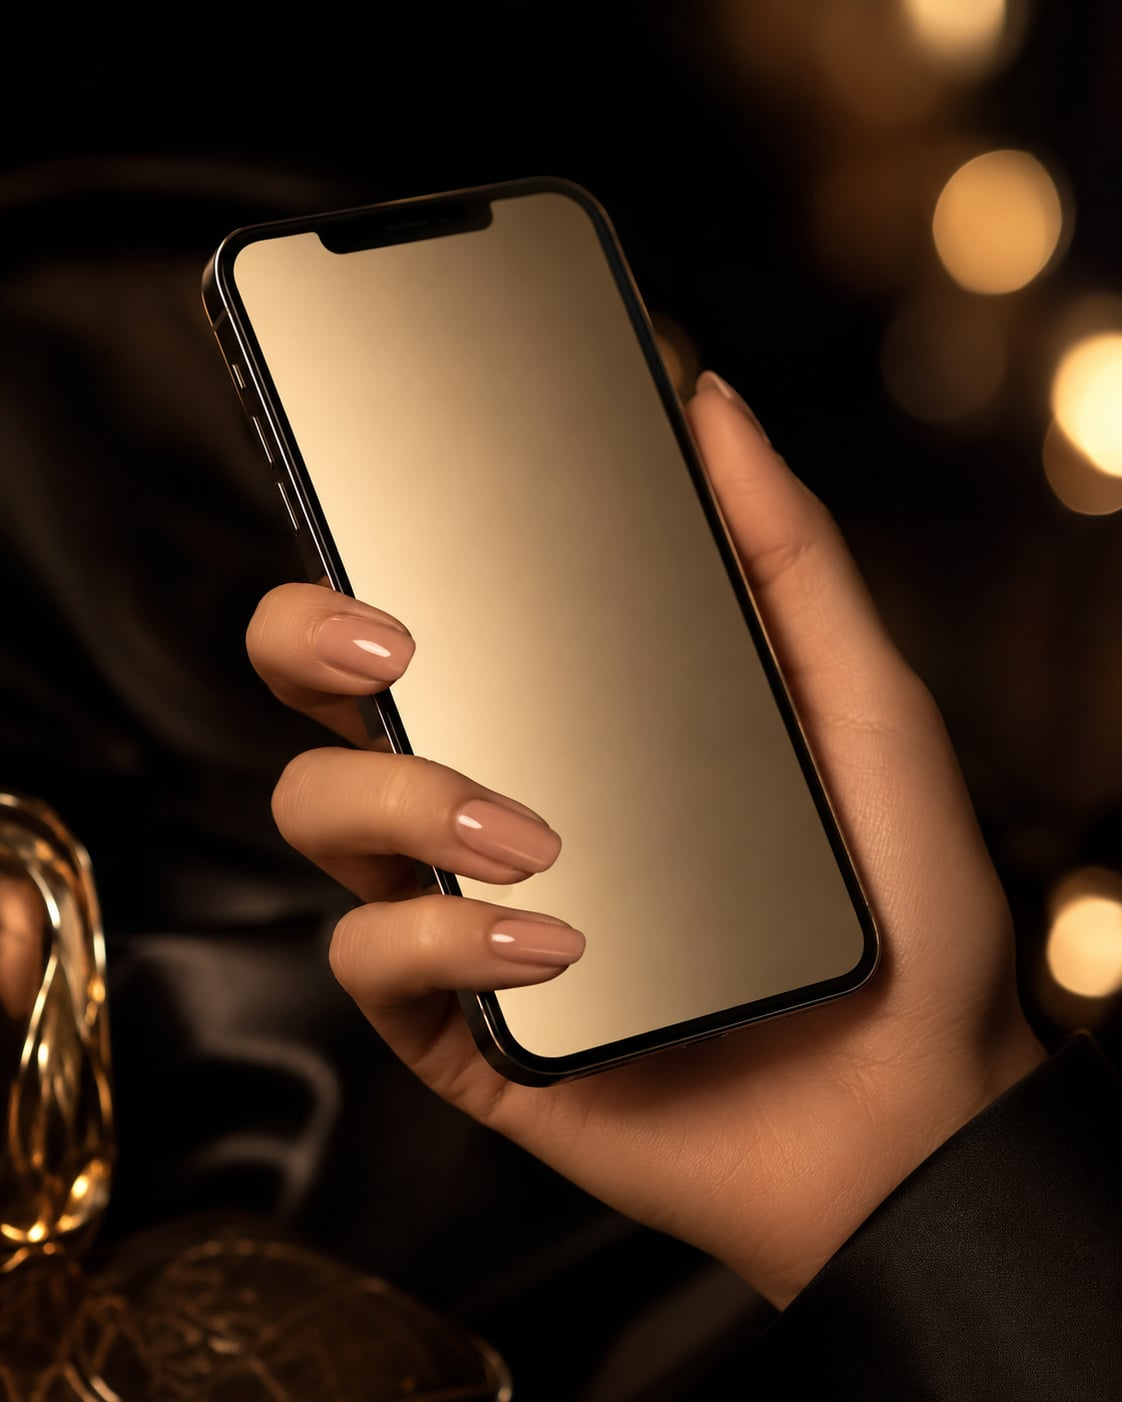
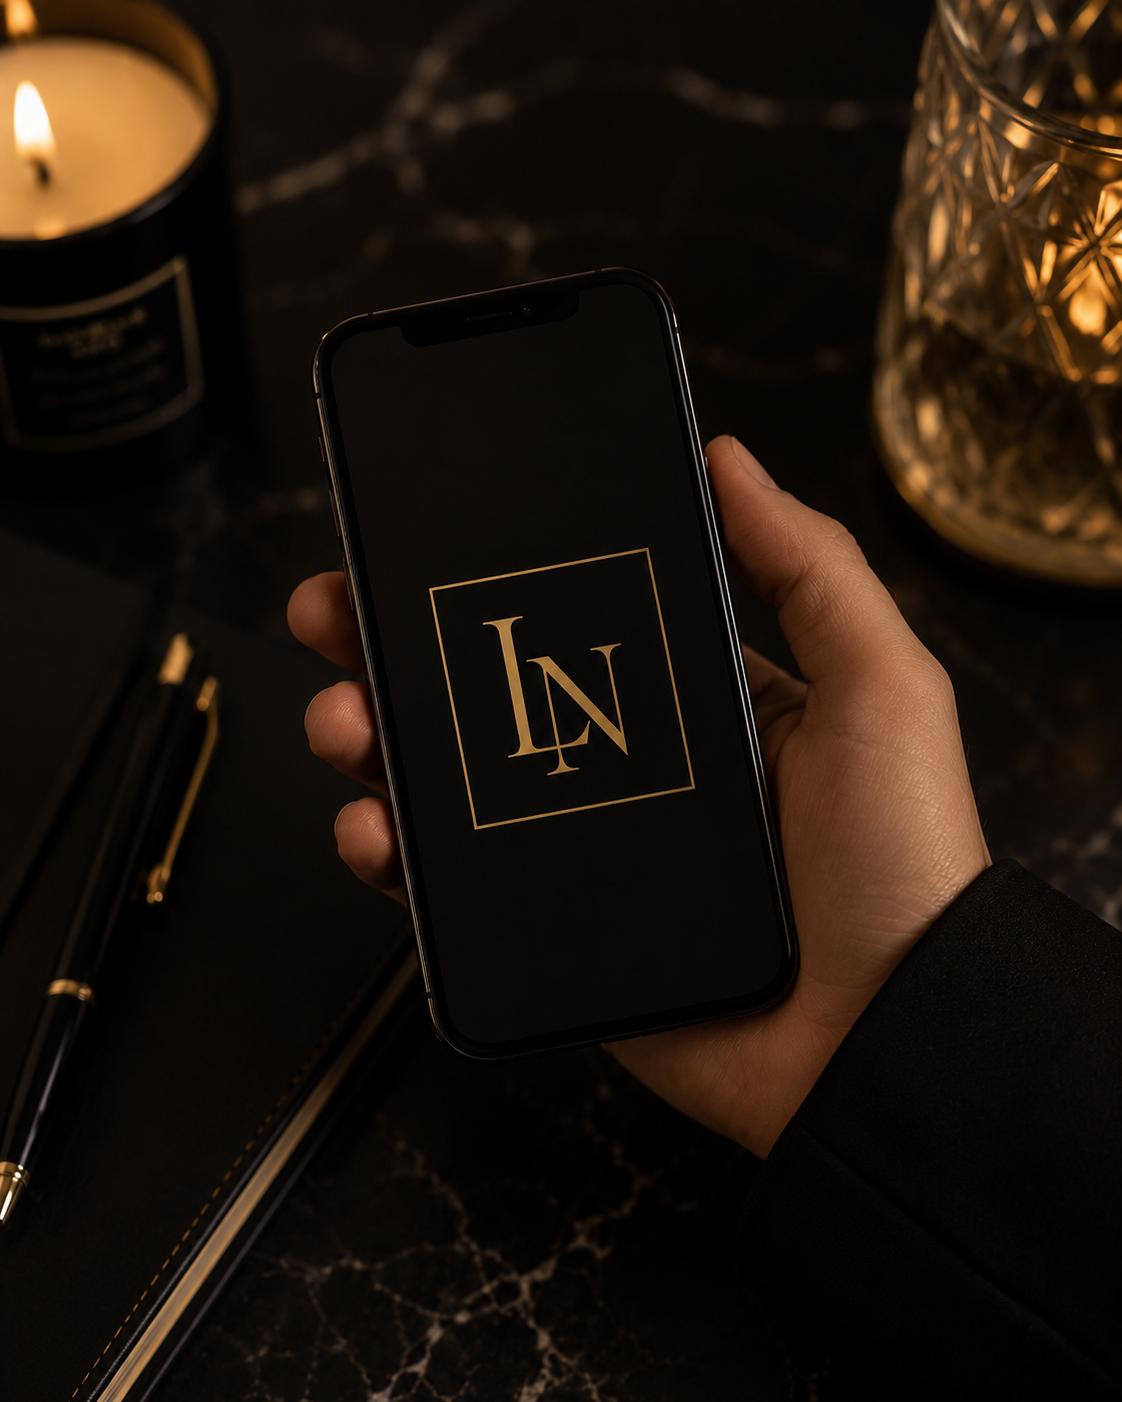
fix: add personal data, meta tags
Add personal data over the website, add meta tags for pages.

diff --git a/apps/web/features/home/config/home.constants.ts b/apps/web/features/home/config/home.constants.ts
@@ -124,99 +124,88 @@ export const GALLERY_FILTERS = [
 export const GALLERY_ITEMS: GalleryItem[] = [
   {
     id: "g01",
-    src: "https://picsum.photos/seed/nails-french/600/900",
-    alt: "Manicure hybrydowy french",
+    src: "/works/work-1.png",
+    alt: "Praca Luxury Nails",
     category: "hybryda",
     size: "tall",
-    service: "Hybryda French",
+    service: "Hybryda",
   },
   {
     id: "g02",
-    src: "https://picsum.photos/seed/nails-nude/800/600",
-    alt: "Żel na naturalną płytkę nude",
+    alt: "Praca Luxury Nails",
     category: "zel",
     size: "normal",
-    service: "Żel nude",
+    service: "Żel",
   },
   {
     id: "g03",
-    src: "https://picsum.photos/seed/nails-art3d/600/900",
-    alt: "Nail art kwiaty 3D",
+    alt: "Praca Luxury Nails",
     category: "nail-art",
     size: "tall",
-    service: "Nail Art 3D",
+    service: "Nail Art",
   },
   {
     id: "g04",
-    src: "https://picsum.photos/seed/nails-tips/800/600",
-    alt: "Przedłużanie tipsami mleczne",
+    alt: "Praca Luxury Nails",
     category: "przedluzanie",
     size: "normal",
-    service: "Przedłużanie tipsami",
+    service: "Przedłużanie",
   },
   {
     id: "g05",
-    src: "https://picsum.photos/seed/nails-classic/800/600",
-    alt: "Manicure klasyczny czerwony",
+    alt: "Praca Luxury Nails",
     category: "manicure",
     size: "normal",
-    service: "Manicure klasyczny",
+    service: "Manicure",
   },
   {
     id: "g06",
-    src: "https://picsum.photos/seed/nails-chrome/800/600",
-    alt: "Hybryda z pyłkiem chrome",
+    alt: "Praca Luxury Nails",
     category: "hybryda",
     size: "normal",
-    service: "Hybryda chrome",
+    service: "Hybryda",
   },
   {
     id: "g07",
-    src: "https://picsum.photos/seed/nails-ombre/600/900",
-    alt: "Żel z gradientem ombre",
+    alt: "Praca Luxury Nails",
     category: "zel",
     size: "tall",
-    service: "Żel ombre",
+    service: "Żel",
   },
   {
     id: "g08",
-    src: "https://picsum.photos/seed/nails-gold/800/600",
-    alt: "Nail art geometryczny złoty",
+    alt: "Praca Luxury Nails",
     category: "nail-art",
     size: "normal",
-    service: "Nail Art złoty",
+    service: "Nail Art",
   },
   {
     id: "g09",
-    src: "https://picsum.photos/seed/nails-gel-sq/800/600",
-    alt: "Przedłużanie żelem kwadrat",
+    alt: "Praca Luxury Nails",
     category: "przedluzanie",
     size: "normal",
-    service: "Przedłużanie żelem",
+    service: "Przedłużanie",
   },
   {
     id: "g10",
-    src: "https://picsum.photos/seed/nails-manicure/600/900",
-    alt: "Manicure z malowaniem nude",
+    alt: "Praca Luxury Nails",
     category: "manicure",
     size: "tall",
-    service: "Manicure nude",
+    service: "Manicure",
   },
   {
     id: "g11",
-    src: "https://picsum.photos/seed/nails-holo/800/600",
-    alt: "Hybryda z foliami holograficznymi",
+    alt: "Praca Luxury Nails",
     category: "hybryda",
     size: "normal",
-    service: "Hybryda folia",
+    service: "Hybryda",
   },
   {
     id: "g12",
-    src: "https://picsum.photos/seed/nails-stones/800/600",
-    alt: "Żel z kamieniami",
+    alt: "Praca Luxury Nails",
     category: "zel",
     size: "normal",
-    service: "Żel z kamieniami",
+    service: "Żel",
   },
 ]
 
@@ -281,27 +270,19 @@ export type CertificateItem = {
 export const CERTIFICATES: CertificateItem[] = [
   {
     id: "cert-01",
-    src: "https://picsum.photos/seed/cert-orly/800/600",
-    alt: "Certyfikat szkolenia ORLY Professional",
-    name: "Stylizacja paznokci żelowych",
-    issuer: "ORLY Professional",
-    year: "2024",
+    src: "/certificates/cerificate-indigo-manicure.png",
+    alt: "Certyfikat szkolenia Indigo Nails — Manicure",
+    name: "Manicure",
+    issuer: "Indigo Nails",
+    year: "2025",
   },
   {
     id: "cert-02",
-    src: "https://picsum.photos/seed/cert-cnd/800/600",
-    alt: "Certyfikat szkolenia CND Shellac",
-    name: "Shellac & Vinylux",
-    issuer: "CND",
-    year: "2023",
-  },
-  {
-    id: "cert-03",
-    src: "https://picsum.photos/seed/cert-semilac/800/600",
-    alt: "Certyfikat szkolenia Semilac Academy",
-    name: "Nail Art & Zdobienia",
-    issuer: "Semilac Academy",
-    year: "2023",
+    src: "/certificates/certificate-indigo-manicure-2.png",
+    alt: "Certyfikat szkolenia Indigo Nails — Manicure",
+    name: "Manicure",
+    issuer: "Indigo Nails",
+    year: "2025",
   },
 ]
 
@@ -315,7 +296,7 @@ export const ABOUT = {
 }
 
 export const ABOUT_STATS: AboutStat[] = [
-  { value: "5+", label: "Lat doświadczenia" },
+  { value: "1+", label: "Lat doświadczenia" },
   { value: "100%", label: "Certyfikowane szkolenia", clickable: true },
   { value: "Klenica", label: "Mała miejscowość, wielka pasja" },
 ]

diff --git a/apps/web/features/home/pricing.tsx b/apps/web/features/home/pricing.tsx
@@ -1,8 +1,42 @@
+import { createClient } from "@/lib/supabase/server"
+import type { PricingCategory } from "./config/home.constants"
 import { PricingHeader } from "./components/pricing/pricing-header"
 import { PricingGrid } from "./components/pricing/pricing-grid"
 import { PricingNote } from "./components/pricing/pricing-note"
 
-export function Pricing() {
+async function getServices(): Promise<PricingCategory[]> {
+  const supabase = await createClient()
+  const { data } = await supabase
+    .from("services")
+    .select("name, price, category")
+    .eq("active", true)
+    .order("category")
+    .order("name")
+
+  if (!data) return []
+
+  const grouped = new Map<string, PricingCategory>()
+  for (const service of data) {
+    if (!grouped.has(service.category)) {
+      grouped.set(service.category, {
+        id: service.category,
+        label:
+          service.category.charAt(0).toUpperCase() + service.category.slice(1),
+        items: [],
+      })
+    }
+    grouped.get(service.category)!.items.push({
+      name: service.name,
+      price: `${service.price} zł`,
+    })
+  }
+
+  return Array.from(grouped.values())
+}
+
+export async function Pricing() {
+  const categories = await getServices()
+
   return (
     <section
       id="pricing"
@@ -10,7 +44,7 @@ export function Pricing() {
       className="scroll-mt-20 bg-background-alt px-6 py-12 md:px-12 md:py-20 lg:px-20 lg:py-28"
     >
       <PricingHeader />
-      <PricingGrid />
+      <PricingGrid categories={categories} />
       <PricingNote />
     </section>
   )

diff --git a/apps/web/features/home/components/pricing/pricing-grid.tsx b/apps/web/features/home/components/pricing/pricing-grid.tsx
@@ -1,10 +1,14 @@
-import { PRICING_CATEGORIES } from "../../config/home.constants"
+import type { PricingCategory } from "../../config/home.constants"
 import { PricingCategoryCard } from "./pricing-category"
 
-export function PricingGrid() {
+type Props = {
+  categories: PricingCategory[]
+}
+
+export function PricingGrid({ categories }: Props) {
   return (
     <div className="mx-auto grid max-w-6xl grid-cols-1 gap-4 sm:grid-cols-2 md:gap-5">
-      {PRICING_CATEGORIES.map((category, i) => (
+      {categories.map((category, i) => (
         <PricingCategoryCard key={category.id} category={category} index={i} />
       ))}
     </div>

diff --git a/apps/web/components/cookie-consent/index.tsx b/apps/web/components/cookie-consent/index.tsx
@@ -1,6 +1,6 @@
 "use client"
 
-import { useState } from "react"
+import { useState, useEffect } from "react"
 import { getConsent, saveConsent } from "@/lib/consent"
 import { CookieSettings, PrefKey } from "./cookie-settings"
 import { CookieBar } from "./cookie-bar"
@@ -9,7 +9,12 @@ const GOLD_GRADIENT =
   "linear-gradient(to right, transparent, oklch(0.72 0.1 85 / 0.25), transparent)"
 
 export function CookieConsent() {
-  const [visible, setVisible] = useState(() => !getConsent())
+  const [visible, setVisible] = useState(false)
+
+  useEffect(() => {
+    // eslint-disable-next-line react-hooks/set-state-in-effect
+    if (!getConsent()) setVisible(true)
+  }, [])
   const [expanded, setExpanded] = useState(false)
   const [prefs, setPrefs] = useState<Record<PrefKey, boolean>>({
     analytics: false,

diff --git a/apps/web/app/dashboard/admin/settings/page.tsx b/apps/web/app/dashboard/admin/settings/page.tsx
@@ -1,9 +1,12 @@
-export const dynamic = "force-dynamic"
-
+import type { Metadata } from "next"
 import { getSettings, getServices } from "@/features/dashboard/settings/actions"
 import { WorkingHoursSection } from "@/features/dashboard/settings/components/working-hours-section"
 import { ServicesSection } from "@/features/dashboard/settings/components/services-section"
 import { GoogleCalendarSection } from "@/features/dashboard/settings/components/google-calendar-section"
+
+export const dynamic = "force-dynamic"
+
+export const metadata: Metadata = { title: "Ustawienia" }
 
 export default async function UstawieniaPage({
   searchParams,

diff --git a/apps/web/app/dashboard/admin/calendar/page.tsx b/apps/web/app/dashboard/admin/calendar/page.tsx
@@ -1,5 +1,8 @@
+import type { Metadata } from "next"
 import { getCalendarData } from "@/features/dashboard/calendar/queries"
 import { CalendarView } from "@/features/dashboard/calendar/components/calendar-view"
+
+export const metadata: Metadata = { title: "Kalendarz" }
 
 export default async function CalendarPage({
   searchParams,

diff --git a/apps/web/app/dashboard/admin/summary/page.tsx b/apps/web/app/dashboard/admin/summary/page.tsx
@@ -16,7 +16,7 @@ import { ExportButtons } from "@/features/dashboard/summary/components/export-bu
 
 export const dynamic = "force-dynamic"
 
-export const metadata: Metadata = { title: "Summary" }
+export const metadata: Metadata = { title: "Podsumowanie" }
 
 function Section({
   title,